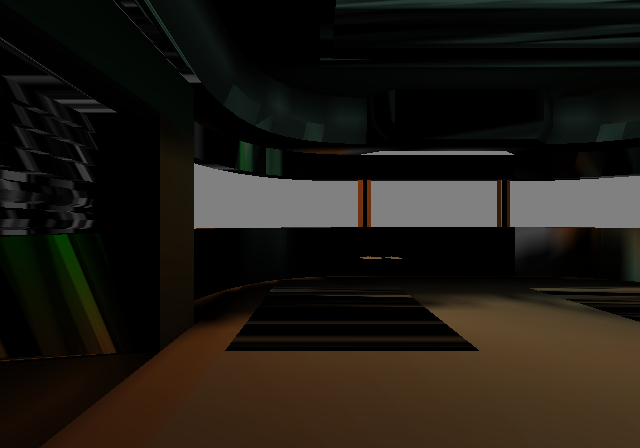
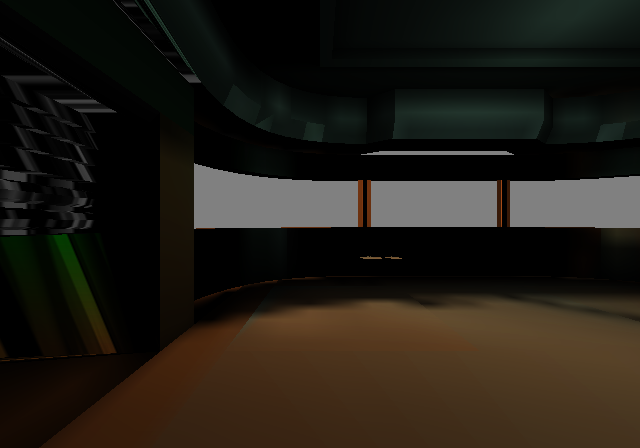
Lightmaps: the strip pass sends RGBAQ after each ST, since PACKED ST's Q reaches the GS only with that write; strips drew with the base pass's last Q, sliding the lightmaps with the camera.

diff --git a/src/ps2/renderer/vu1progs/vu_memory.h b/src/ps2/renderer/vu1progs/vu_memory.h
@@ -23,8 +23,8 @@
 // Per-pass GIF tag and A+D templates. The first is a null GIF tag (NLOOP 0, EOP 1): the drain
 // guard passthrough.vcl kicks so a program ends only once its packet has left VU memory. Then
 // the world programs' drawing tags, for strips and for the clipper's triangles, and the lightmap
-// pass's in the other GS context: strips as ST and XYZ2, the clipper's triangles as ST, RGBAQ and
-// XYZ2 (the colour unused under DECAL).
+// pass's in the other GS context, both ST, RGBAQ and XYZ2: DECAL ignores the colour, but the RGBAQ
+// write is what stores the Q of a PACKED ST.
 #define kVuGifTemplatesAddr     8
 #define kVuNullGifTagAddr       8
 #define kVuStripTagAddr         9
@@ -48,13 +48,12 @@
 #define kVuBatchListTagOffset      305
 
 // Two output windows, absolute and shared by both halves: one tag qword, then ST (with Q), RGBAQ
-// and XYZ2 per vertex (a lightmap strip, ST and XYZ2). A program fills one, kicks it and continues
+// and XYZ2 per vertex. A program fills one, kicks it and continues
 // in the other; an XGKICK stalls while the previous transfer runs, so the window being written has
 // always drained.
 #define kVuWindowA                652
 #define kVuWindowQwords           151
 #define kVuWindowVertices         50
-#define kVuWindowLightmapVertices 75
 
 // Clip scratch (954-1008): the list path's walk state (954 x entries left, y next stream qword,
 // z lanes left, w the previous vertex; 955 x the vertex before, y the address of the pass's

diff --git a/src/ps2/renderer/gs.cpp b/src/ps2/renderer/gs.cpp
@@ -646,12 +646,11 @@ qword_t DrawingTag(Primitive primitive, VertexFormat format, DrawContext context
     };
     static constexpr u64 kRegisters[][2] = {
         { static_cast<u64>(GIF_REG_RGBAQ) | (static_cast<u64>(GIF_REG_XYZ2) << 4), 2 },
-        { static_cast<u64>(GIF_REG_ST) | (static_cast<u64>(GIF_REG_RGBAQ) << 4) | (static_cast<u64>(GIF_REG_XYZ2) << 8), 3 },
-        { static_cast<u64>(GIF_REG_ST) | (static_cast<u64>(GIF_REG_XYZ2) << 4), 2 }
+        { static_cast<u64>(GIF_REG_ST) | (static_cast<u64>(GIF_REG_RGBAQ) << 4) | (static_cast<u64>(GIF_REG_XYZ2) << 8), 3 }
     };
 
     static_assert(ArrayLength(kTypes) == static_cast<int>(Primitive::Sprite) + 1, "kTypes must follow Primitive");
-    static_assert(ArrayLength(kRegisters) == static_cast<int>(VertexFormat::StPosition) + 1, "kRegisters must follow VertexFormat");
+    static_assert(ArrayLength(kRegisters) == static_cast<int>(VertexFormat::StColorPosition) + 1, "kRegisters must follow VertexFormat");
     PS2_AssertMsg(!textured || format != VertexFormat::ColorPosition, "a textured drawing tag needs ST");
     PS2_AssertMsg(static_cast<int>(primitive) < ArrayLength(kTypes) && static_cast<int>(format) < ArrayLength(kRegisters),
                   "invalid GS drawing tag");

diff --git a/src/tests/host/scripts/test_vu_cost.py b/src/tests/host/scripts/test_vu_cost.py
@@ -109,14 +109,15 @@ class WorldProgramTests(unittest.TestCase):
                 self.assertGreater(cycles, 48 * length)
 
     def test_lightmap_pass_sends_every_vertex_again(self):
-        # Its windows hold 75 vertices of two qwords: a 68-vertex batch (291 qwords) fits one.
+        # Its windows are the base pass's (ST, RGBAQ and XYZ2, 50 vertices), so it kicks and resends
+        # exactly as the base pass does.
         program = vu_cost.load_program("world_lm")
         for length, base_kicks, base_sent in ((6, 1, 8), (68, 2, 70)):
             with self.subTest(vertices=length):
                 unlit = vu_cost.batch_cycles(program, batch_packet(strip_of(length), True))
                 lit = vu_cost.batch_cycles(program, batch_packet(strip_of(length), True), lit=True)
                 self.assertEqual(unlit[1:], (base_kicks, base_sent))
-                self.assertEqual(lit[1:], (base_kicks + 1, base_sent + 4 * ((length + 3) // 4)))
+                self.assertEqual(lit[1:], (2 * base_kicks, 2 * base_sent))
                 self.assertGreater(lit[0], unlit[0] + 8 * length)
         # world_strips draws no lightmap pass.
         strips = vu_cost.load_program("world_strips")

diff --git a/src/ps2/renderer/world.cpp b/src/ps2/renderer/world.cpp
@@ -156,7 +156,7 @@ vu::FrameConstants MakeFrameConstants(const math::Mat4 & viewProjection, gs::Dra
     constants.clipScale      = { vu::kGuardBandScale, vu::kGuardBandScale, 1.0f, 0.0f };
     constants.stripTag       = gs::DrawingTag(gs::Primitive::TriangleStrip, gs::VertexFormat::StColorPosition, context);
     constants.listTag        = gs::DrawingTag(gs::Primitive::Triangle, gs::VertexFormat::StColorPosition, context);
-    constants.lightmapStripTag = gs::LightmapTag(gs::Primitive::TriangleStrip, gs::VertexFormat::StPosition, context);
+    constants.lightmapStripTag = gs::LightmapTag(gs::Primitive::TriangleStrip, gs::VertexFormat::StColorPosition, context);
     constants.lightmapListTag  = gs::LightmapTag(gs::Primitive::Triangle, gs::VertexFormat::StColorPosition, context);
     return constants;
 }

diff --git a/src/ps2/renderer/gs.h b/src/ps2/renderer/gs.h
@@ -171,8 +171,7 @@ enum class Primitive : u8
 enum class VertexFormat : u8
 {
     ColorPosition,   // RGBAQ, XYZ2
-    StColorPosition, // ST (with Q), RGBAQ, XYZ2
-    StPosition       // ST (with Q), XYZ2
+    StColorPosition  // ST (with Q), RGBAQ, XYZ2: PACKED ST's Q reaches the GS only with the RGBAQ write
 };
 
 // A PACKED GIF tag whose PRE sets a Gouraud-shaded 'primitive' in 'context', sampling the bound

diff --git a/.claude/rules/vu-microprograms.md b/.claude/rules/vu-microprograms.md
@@ -93,7 +93,7 @@ shared `vu_common.i`/`vu_clip.i`. The code lands in `.vutext` (the `.vu` directi
 - **Sixteen lanes, both passes:** phase 1 stores the lightmap S x Q in qword 3 `.w` and T x Q in
   qword 0 `.w` (the clip position's w); the clipper's seed rebuilds w as 1/Q (`div` per corner) and
   blends the pass's UV by the pass float in the walk state. A lit batch walks its stream again for
-  the lightmap pass (ST and XYZ2 a vertex, 75 a window). `world_lm` is 1,272 instructions and
+  the lightmap pass (ST, RGBAQ and XYZ2 like the base pass: the RGBAQ write is what stores a PACKED ST's Q). `world_lm` is 1,272 instructions and
   `world_strips` 940 (no lightmap pass; it zeroes the pass word), so both world programs swap and
   only passthrough is resident.
 - The two output windows are absolute (652, 803) and keep alternating across batches through
@@ -112,7 +112,7 @@ shared `vu_common.i`/`vu_clip.i`. The code lands in `.vutext` (the `.vu` directi
   at `waitq`, clip flags taken as zero (the strip path). openvcl overlaps no loop iterations: the
   transform is about 51 cycles a vertex, so per-triangle cost follows vertices transformed
   (`world_lm` 93 cycles per mars_city1 triangle, plain strips 122.5; textured, 99.5; lit, 116.8 for
-  the base pass and 153.7 with the lightmap pass, `--no-lightmaps` for the first). Only kicks of an
+  the base pass and 154.2 with the lightmap pass, `--no-lightmaps` for the first). Only kicks of an
   output window count as packets.
 
 ## VU memory layout (vu1.h)

diff --git a/docs/PORT_STATUS.md b/docs/PORT_STATUS.md
@@ -5656,3 +5656,18 @@ reference.
 | `make test-world` (debug) | Passed in both standards |
 | `make test-host` | Passed: 399 Python tests and the C++ harnesses |
 | `make`, `make release` | Passed, no warnings; runnable `PT_LOAD` 4,745,780 debug and 4,038,836 release |
+
+### Lightmap strips drew with a stale Q (fixed 2026-11-08)
+
+Flying through the map showed lightmap bands that slid with the camera. The strip path's lightmap
+pass sent ST and XYZ2 per vertex, but a PACKED ST's Q is stored only by the next RGBAQ write, so
+every lightmap strip vertex divided its ST by the last Q the base pass left. The list and clipper
+paths already sent RGBAQ, so only strips were affected. The fixed views looked plausible, and the
+lightmap captures were checked by eye only. The strip pass now sends ST, RGBAQ and XYZ2 like the base pass (50 vertices
+a window); VU1 cost with the lightmap pass is 154.2 cycles per mars_city1 triangle (153.7 before).
+The `docs/images/renderer-world-9-*` and `-10-*` captures were retaken.
+
+| Check | Result |
+| --- | --- |
+| `make test-world-retail` (debug) | NTSC `20261108T091935Z_world_retail_332e9d8a1107`, PAL `20261108T092017Z_world_retail_ece5e9b209b5` |
+| `test_vu_cost` | The lightmap pass now kicks and resends exactly as the base pass |

diff --git a/.claude/rules/gs-renderer.md b/.claude/rules/gs-renderer.md
@@ -24,6 +24,9 @@ coordinates; CLUTs; VRAM and mipmaps.
 - **One XGKICK with several GIF tags: only the last tag may set EOP** (PRE=1 on each tag).
 - **TEST.ZTE must be 1** (ZTST ALWAYS, ZMSK 1 when not using depth); ZTE 0 is prohibited by the
   manual though PCSX2 tolerates it. Every primitive writes TEST.
+- **PACKED ST's Q reaches the GS only with the next PACKED RGBAQ write** (the GS holds it until
+  then). A vertex format of ST and XYZ2 alone draws every vertex with a stale Q: textures slide
+  with the camera. Send RGBAQ after ST even when the colour is unused (DECAL).
 - **Normalized ST spans the TEX0 TW/TH extent**, the image rounded up to a power of two, not the
   image. The 2D path uses texel (`PRIM_MAP_UV`) coordinates.
 - **CLUT CSM1 reorder:** in each 32-entry group the two middle 8-entry blocks swap:
